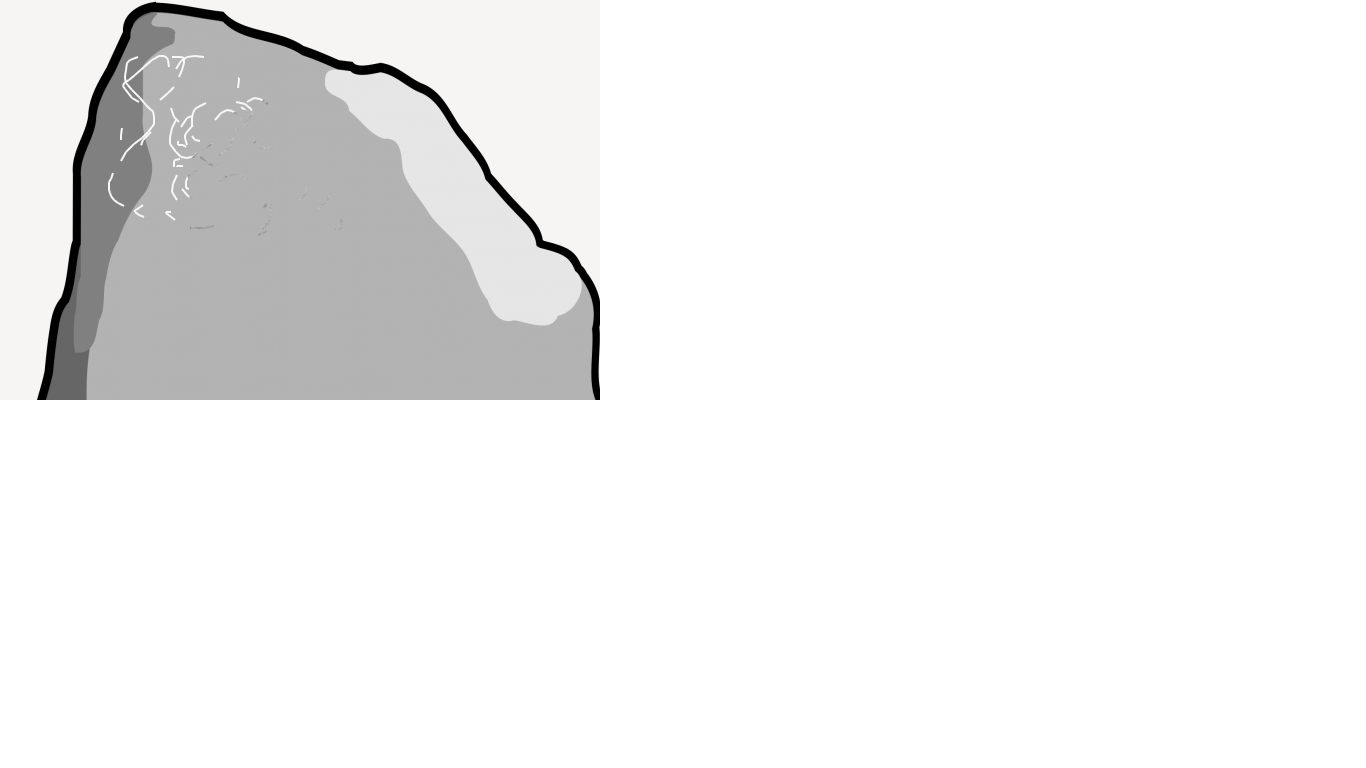
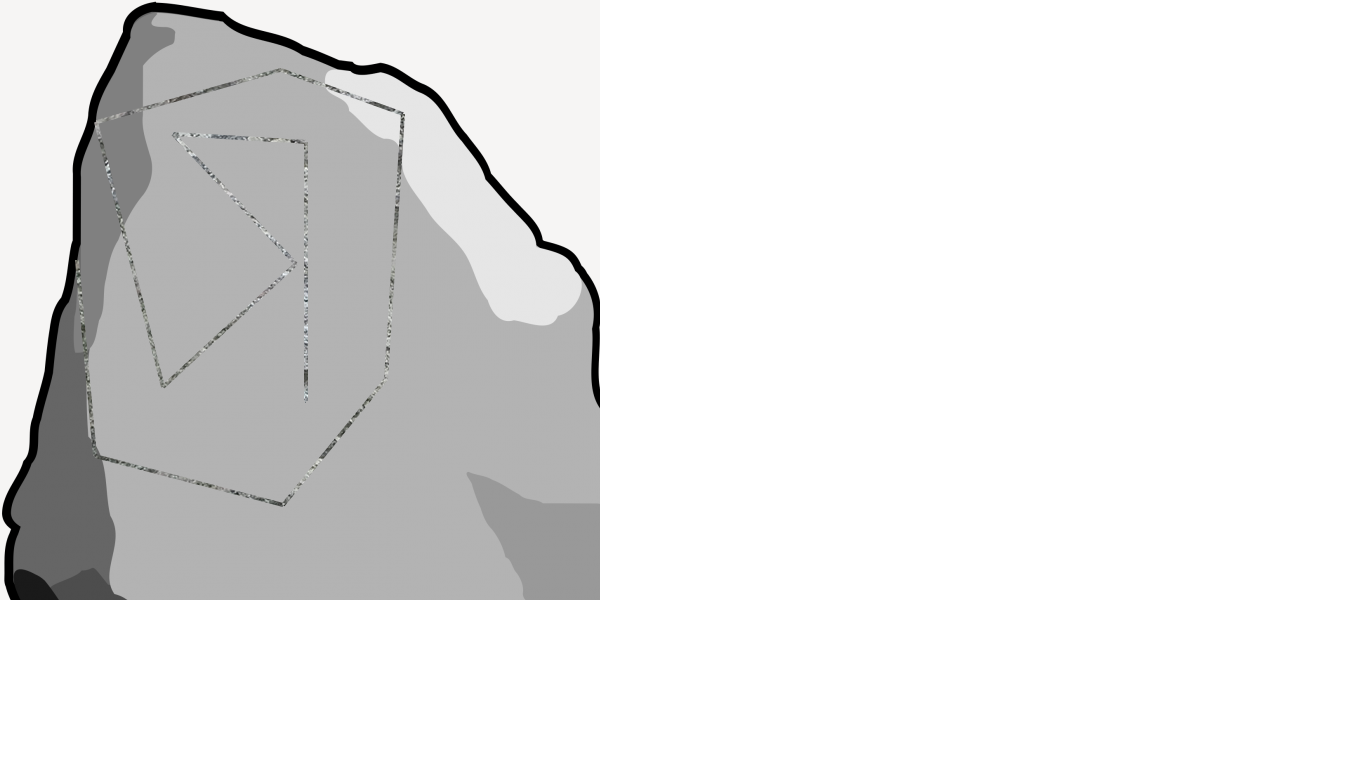
drawing area works, drawing area is called by sign in

diff --git a/client/src/drawing_area.c b/client/src/drawing_area.c
@@ -18,7 +18,7 @@ void draw_brush(GtkWidget *widget, gdouble x, gdouble y, GtkWidget *draw_area)
 	//check for better effectivness
 	// gtk_widget_queue_draw(draw_area);
 
-	gtk_widget_queue_draw_area(draw_area, 0, 0, 440, 300);
+	gtk_widget_queue_draw_area(draw_area, 0, 0, 600, 600);
 	
 }
 
@@ -50,7 +50,7 @@ gboolean on_draw_draw(GtkWidget *widget, cairo_t *cr, gpointer data)
 	width = gtk_widget_get_allocated_width(widget);
 	height = gtk_widget_get_allocated_height(widget);
 
-	cairo_set_line_width(cr, 2.0);
+	cairo_set_line_width(cr, 4.0);
 
 	if (s_point_start == NULL) {
     	return FALSE;
@@ -68,12 +68,12 @@ gboolean on_draw_draw(GtkWidget *widget, cairo_t *cr, gpointer data)
         // cairo_set_source_rgb(cr, 0.2, 0.3, 0.2);
         
 		cairo_move_to(cr, (double)old_x, (double)old_y);
-        if(ABS((point->x - old_x)) < cairo_get_line_width(cr) * 5 && ABS((point->y - old_y)) < cairo_get_line_width(cr) * 5) {
+        // if(ABS((point->x - old_x)) < cairo_get_line_width(cr) * 5 && ABS((point->y - old_y)) < cairo_get_line_width(cr) * 5) {
 		    cairo_line_to(cr, (double)point->x, (double)point->y);
 
 			// weird line version
 	        // cairo_curve_to(cr, point->x, point->y, point->x + 3, point->y + 3, point->x + 5, point->y + 5);
-        }
+        // }
 
         cairo_stroke(cr);
 
@@ -103,32 +103,30 @@ gboolean on_draw_motion_notify_event(GtkWidget *widget, GdkEventMotion *event, t
 
 void add_draw_area(t_current_window_info *current_window_info) {
 
-	gtk_widget_hide(current_window_info->main_window);
+	GtkBuilder* drawing_window_builder = gtk_builder_new_from_file(get_path_to_glade("drawing_area.glade"));
+    
+    GtkWidget *drawing_window = GTK_WIDGET(gtk_builder_get_object(drawing_window_builder, "drawing_window"));
+    g_signal_connect(drawing_window, "destroy", G_CALLBACK(gtk_main_quit), NULL);
 
-	// create layout form glade
-	// add layout to current window
-    gtk_builder_add_from_file(current_window_info->builder, get_path_to_glade("drawing_area.glade"), NULL);
-
-
-    GtkLayout *drawing_area_layout = GTK_LAYOUT(gtk_builder_get_object(current_window_info->builder, "draw_layout"));
-
-    GtkLayout *current_layout = GTK_LAYOUT(gtk_builder_get_object(current_window_info->builder, "sign_in_layout")); //TODO: replace layout
-
-    // gtk_widget_destroy(current_layout);
-    // gtk_container_add(GTK_CONTAINER(current_window_info->main_window), GTK_WIDGET(drawing_area_layout));
-	// current_layout = GTK_LAYOUT(gtk_builder_get_object(current_window_info->builder, "sign_in_layout"));
-	// gtk_container_add(GTK_CONTAINER(drawing_area_layout), GTK_WIDGET(current_layout));
-    gtk_container_add(GTK_CONTAINER(current_layout), GTK_WIDGET(drawing_area_layout));
-
-
-	GtkWidget *draw_area = GTK_WIDGET(gtk_builder_get_object(current_window_info->builder, "draw"));
+    
+    t_current_window_info *drawing_window_info = NULL;
+    
+    drawing_window_info = create_current_window_info();
+    drawing_window_info->main_window = drawing_window;
+    drawing_window_info->builder = drawing_window_builder;
+    
+	GtkWidget *draw_area = GTK_WIDGET(gtk_builder_get_object(drawing_window_info->builder, "draw"));
 	
-    g_signal_connect(draw_area, "button-press-event", G_CALLBACK(on_draw_button_press_event), current_window_info);
-    g_signal_connect(draw_area, "button-release-event", G_CALLBACK(on_draw_button_release_event), current_window_info);
-    g_signal_connect(draw_area, "draw", G_CALLBACK(on_draw_draw), current_window_info);
-    g_signal_connect(draw_area, "motion-notify-event", G_CALLBACK(on_draw_motion_notify_event), current_window_info);
+    g_signal_connect(draw_area, "button-press-event", G_CALLBACK(on_draw_button_press_event), drawing_window_info);
+    g_signal_connect(draw_area, "button-release-event", G_CALLBACK(on_draw_button_release_event), drawing_window_info);
+    g_signal_connect(draw_area, "draw", G_CALLBACK(on_draw_draw), drawing_window_info);
+    g_signal_connect(draw_area, "motion-notify-event", G_CALLBACK(on_draw_motion_notify_event), drawing_window_info);
     gtk_widget_set_events(draw_area, GDK_BUTTON_MOTION_MASK | GDK_BUTTON_PRESS_MASK | GDK_BUTTON_RELEASE_MASK);
-    gtk_widget_show_all(current_window_info->main_window);
+
+    gtk_widget_show(drawing_window);
+
+    gtk_main();
+
 }
 
 
